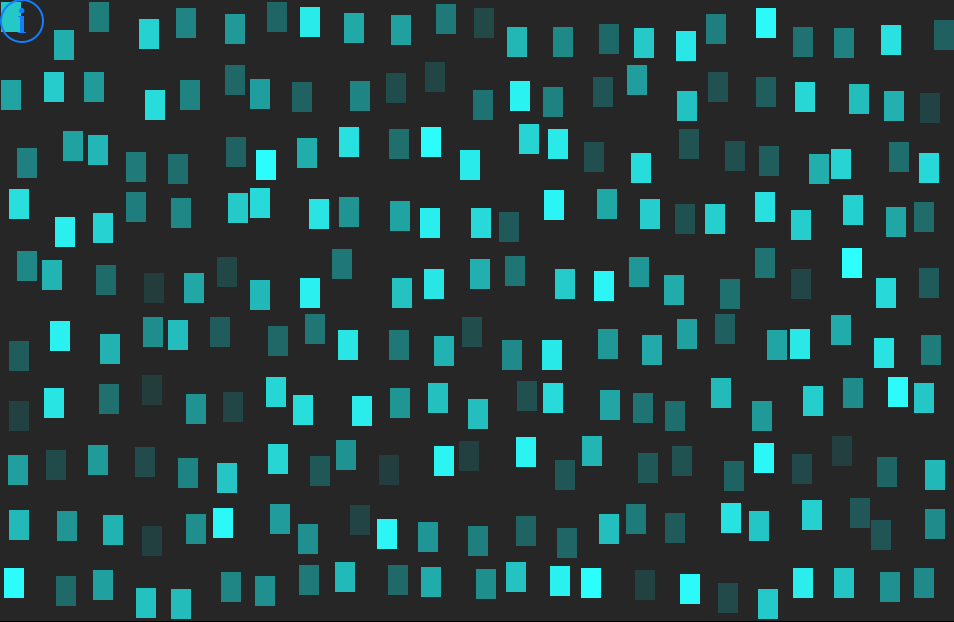
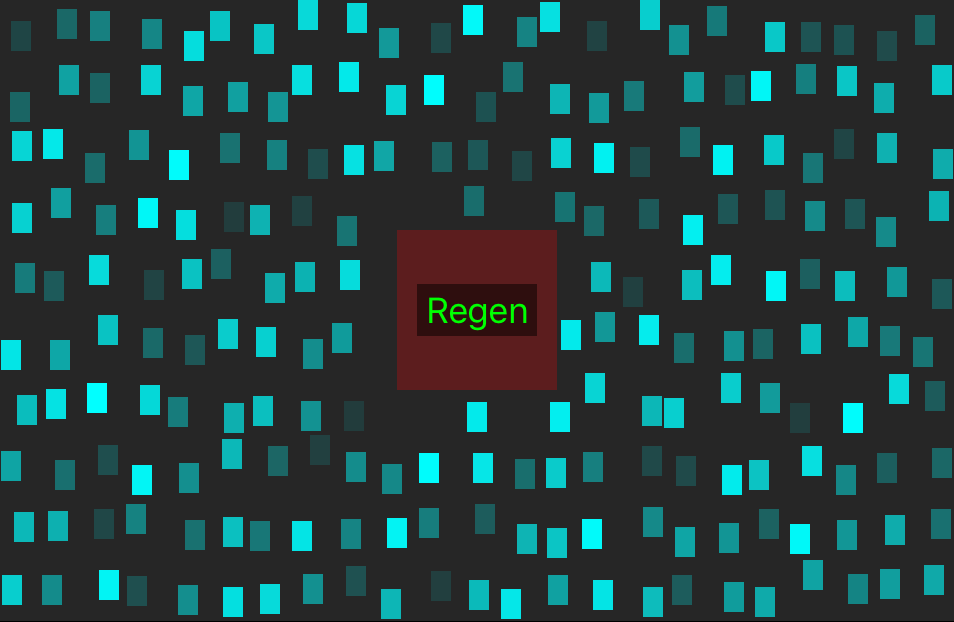
Added links to source files in README. Updated image.

diff --git a/PositionerPlayground.playground/Contents.swift b/PositionerPlayground.playground/Contents.swift
@@ -27,7 +27,6 @@ let pos = Positioner(bounds: rect,
 //
 let sceneView = SKView(frame: rect)
 let scene = SKScene(size: rect.size)
-scene.backgroundColor = UIColor.darkGray
 
 // Show the scene
 //

diff --git a/README.md b/README.md
@@ -9,8 +9,8 @@ up with.
 The class Positioner generates positions based on settings provided in the constructor (see
 `PositionerPlayground.playground/Sources`). The gist is that we divide up the given rectangle into possible
 locations, then randomly vary the positions in X, Y dimensions that will keep the necessary separation so that
-no two sprite positions will overlap. Finally, we dole out positions in a random way. For the gory details,
-please see the source.
+no two sprite positions will overlap. Finally, we dole out positions in a random way. See the source for
+additional info.
 
 ## Operation
 
@@ -21,15 +21,17 @@ If *that* does not appear, make sure the assistant editor is visible on the righ
 The sprites in the scene start out with an alpha of 1.0 (opaque) and then gradually fall to an alpha of 0.10 in
 order to give some semblance of the randomness in which the values come from the `Positioner`.
 
-Click on the (barely-visible) '(i)' icon in the upper-left corner to regenerate a new set of positions.
+Click on the 'Regen' button in the middle to regenerate a new set of positions.
 
 ## Files
 
 Everything is located in the `PositionerPlayground.playground` directory. The Swift source for the playground is
 there as `Contents.swift`. The supporting files are found in `Sources`:
 
-* `Positioner.swift` -- the position generating code
-* `CoreGraphics+Additions.swift` -- extentions to various
-[CoreGraphics](https://developer.apple.com/reference/coregraphics) structs to allow for simple math expressions
-* `RandomUniform.swift` -- random number generator using the facilities from Apple's
+* [Positioner.swift](Positioner.swift) -- the position generating code
+* [Button.swift](Button.swift) -- creates the *Regen* button shown above the scene. The `regenPositions` method populates the
+SpriteKit scene of the playground with sprites using data from the `Positioner` instance.
+* [RandomUniform.swift](RandomUniform.swift) -- random number generator using the facilities from Apple's
 [GameKit](https://developer.apple.com/reference/gamekit)
+* [CoreGraphics+Additions.swift](CoreGraphics+Additions.swift) -- extentions to various
+[CoreGraphics](https://developer.apple.com/reference/coregraphics) structs to allow for simple math expressions
